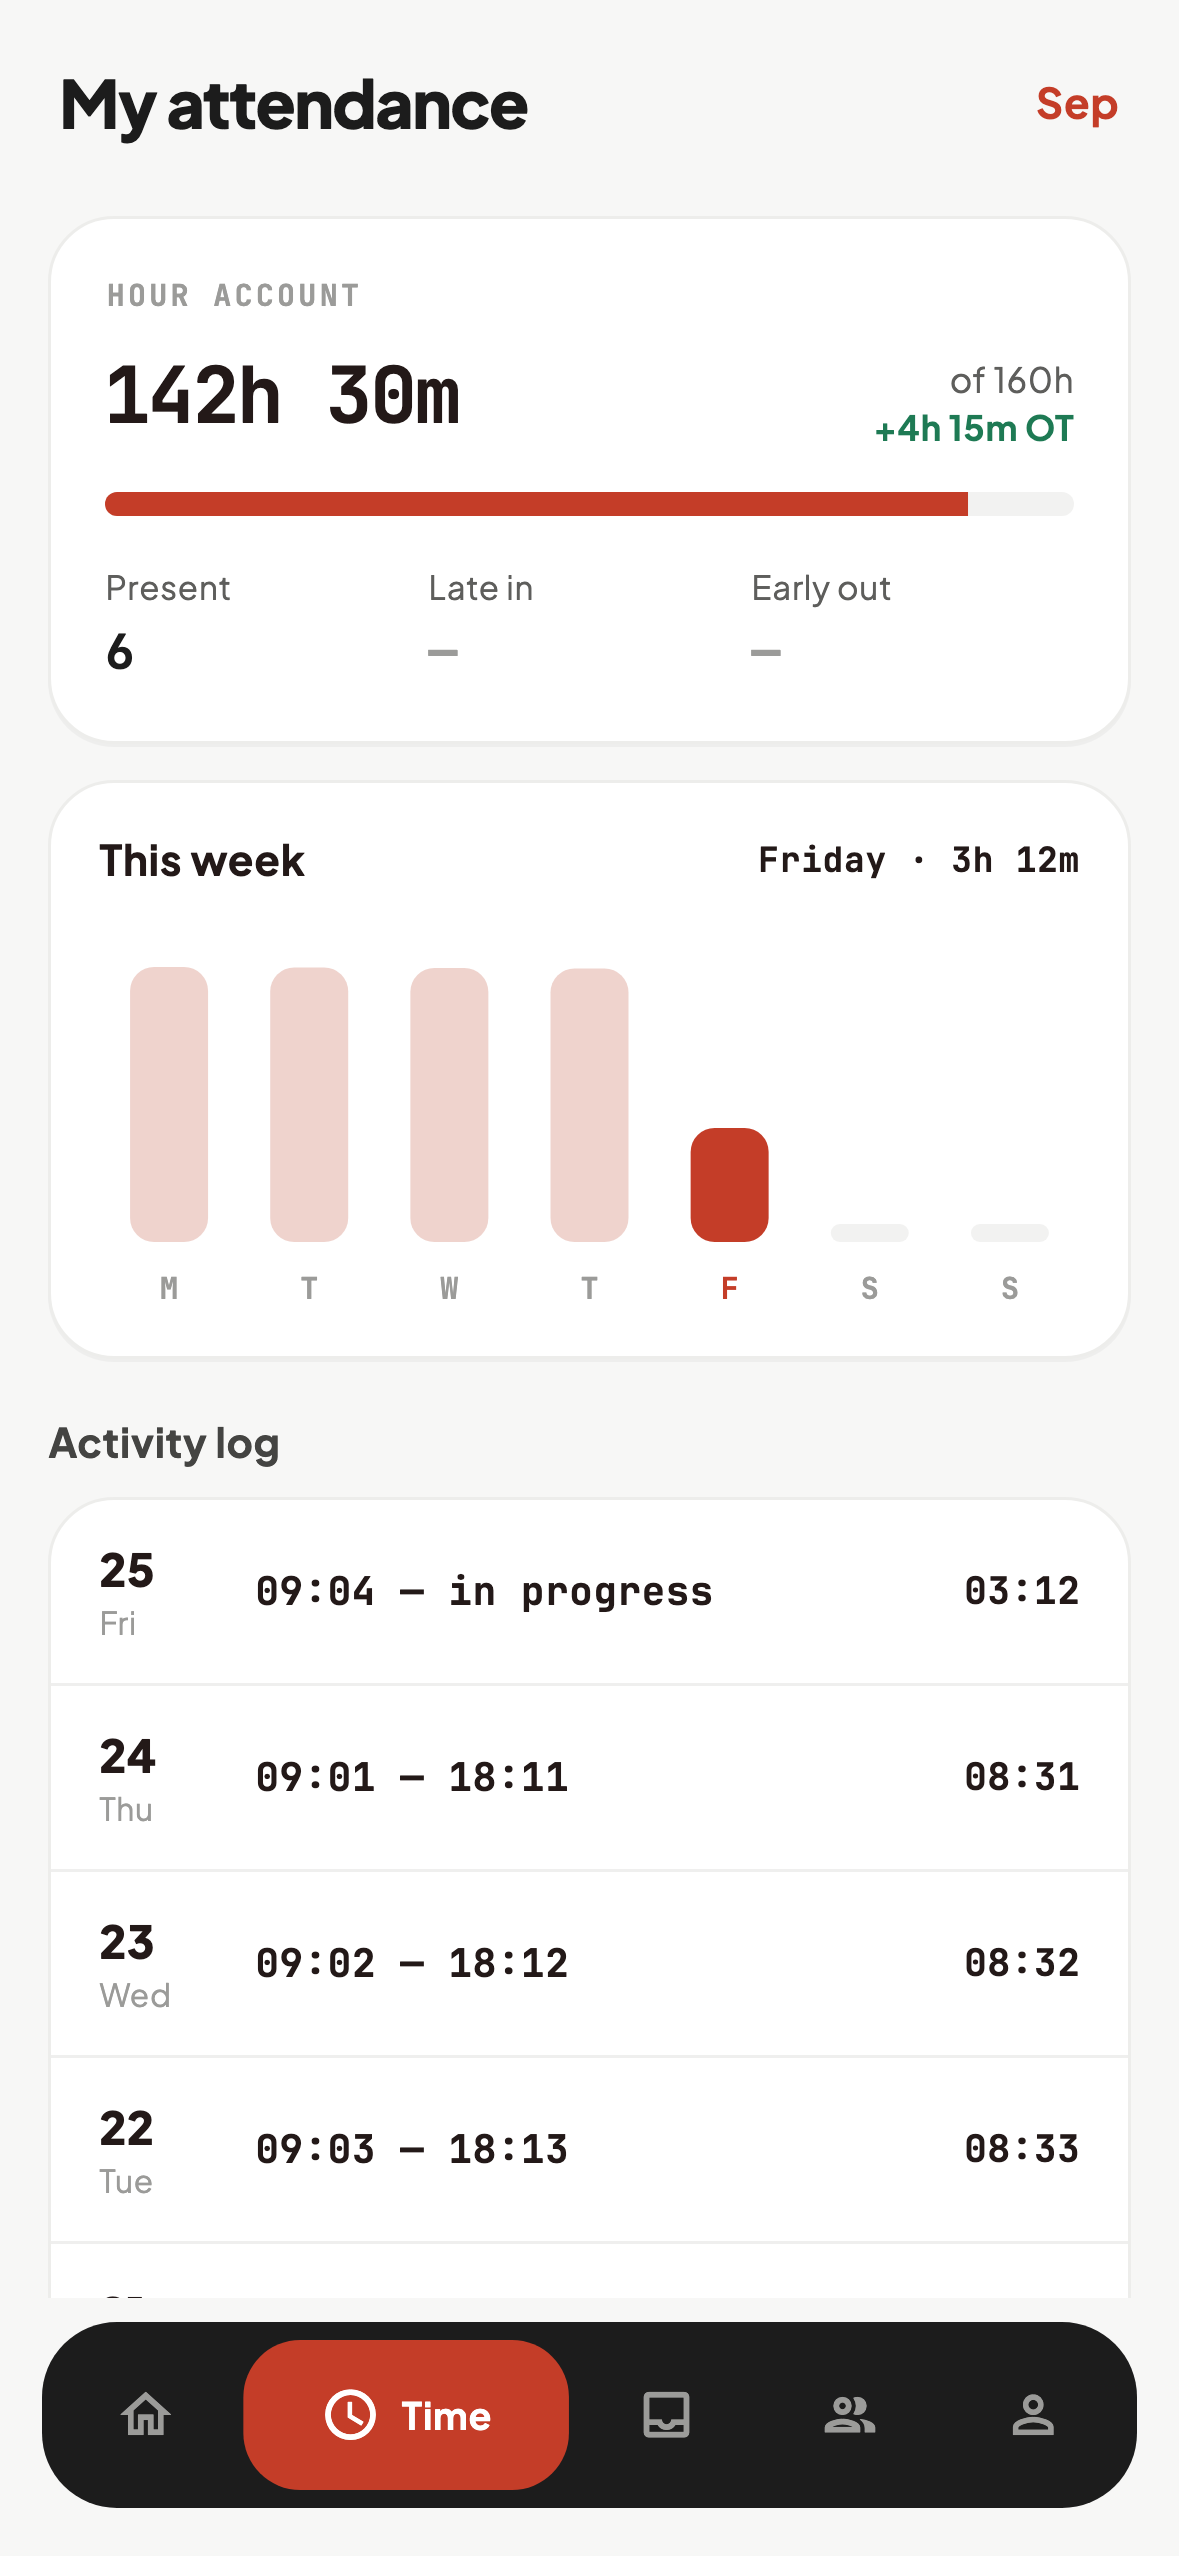
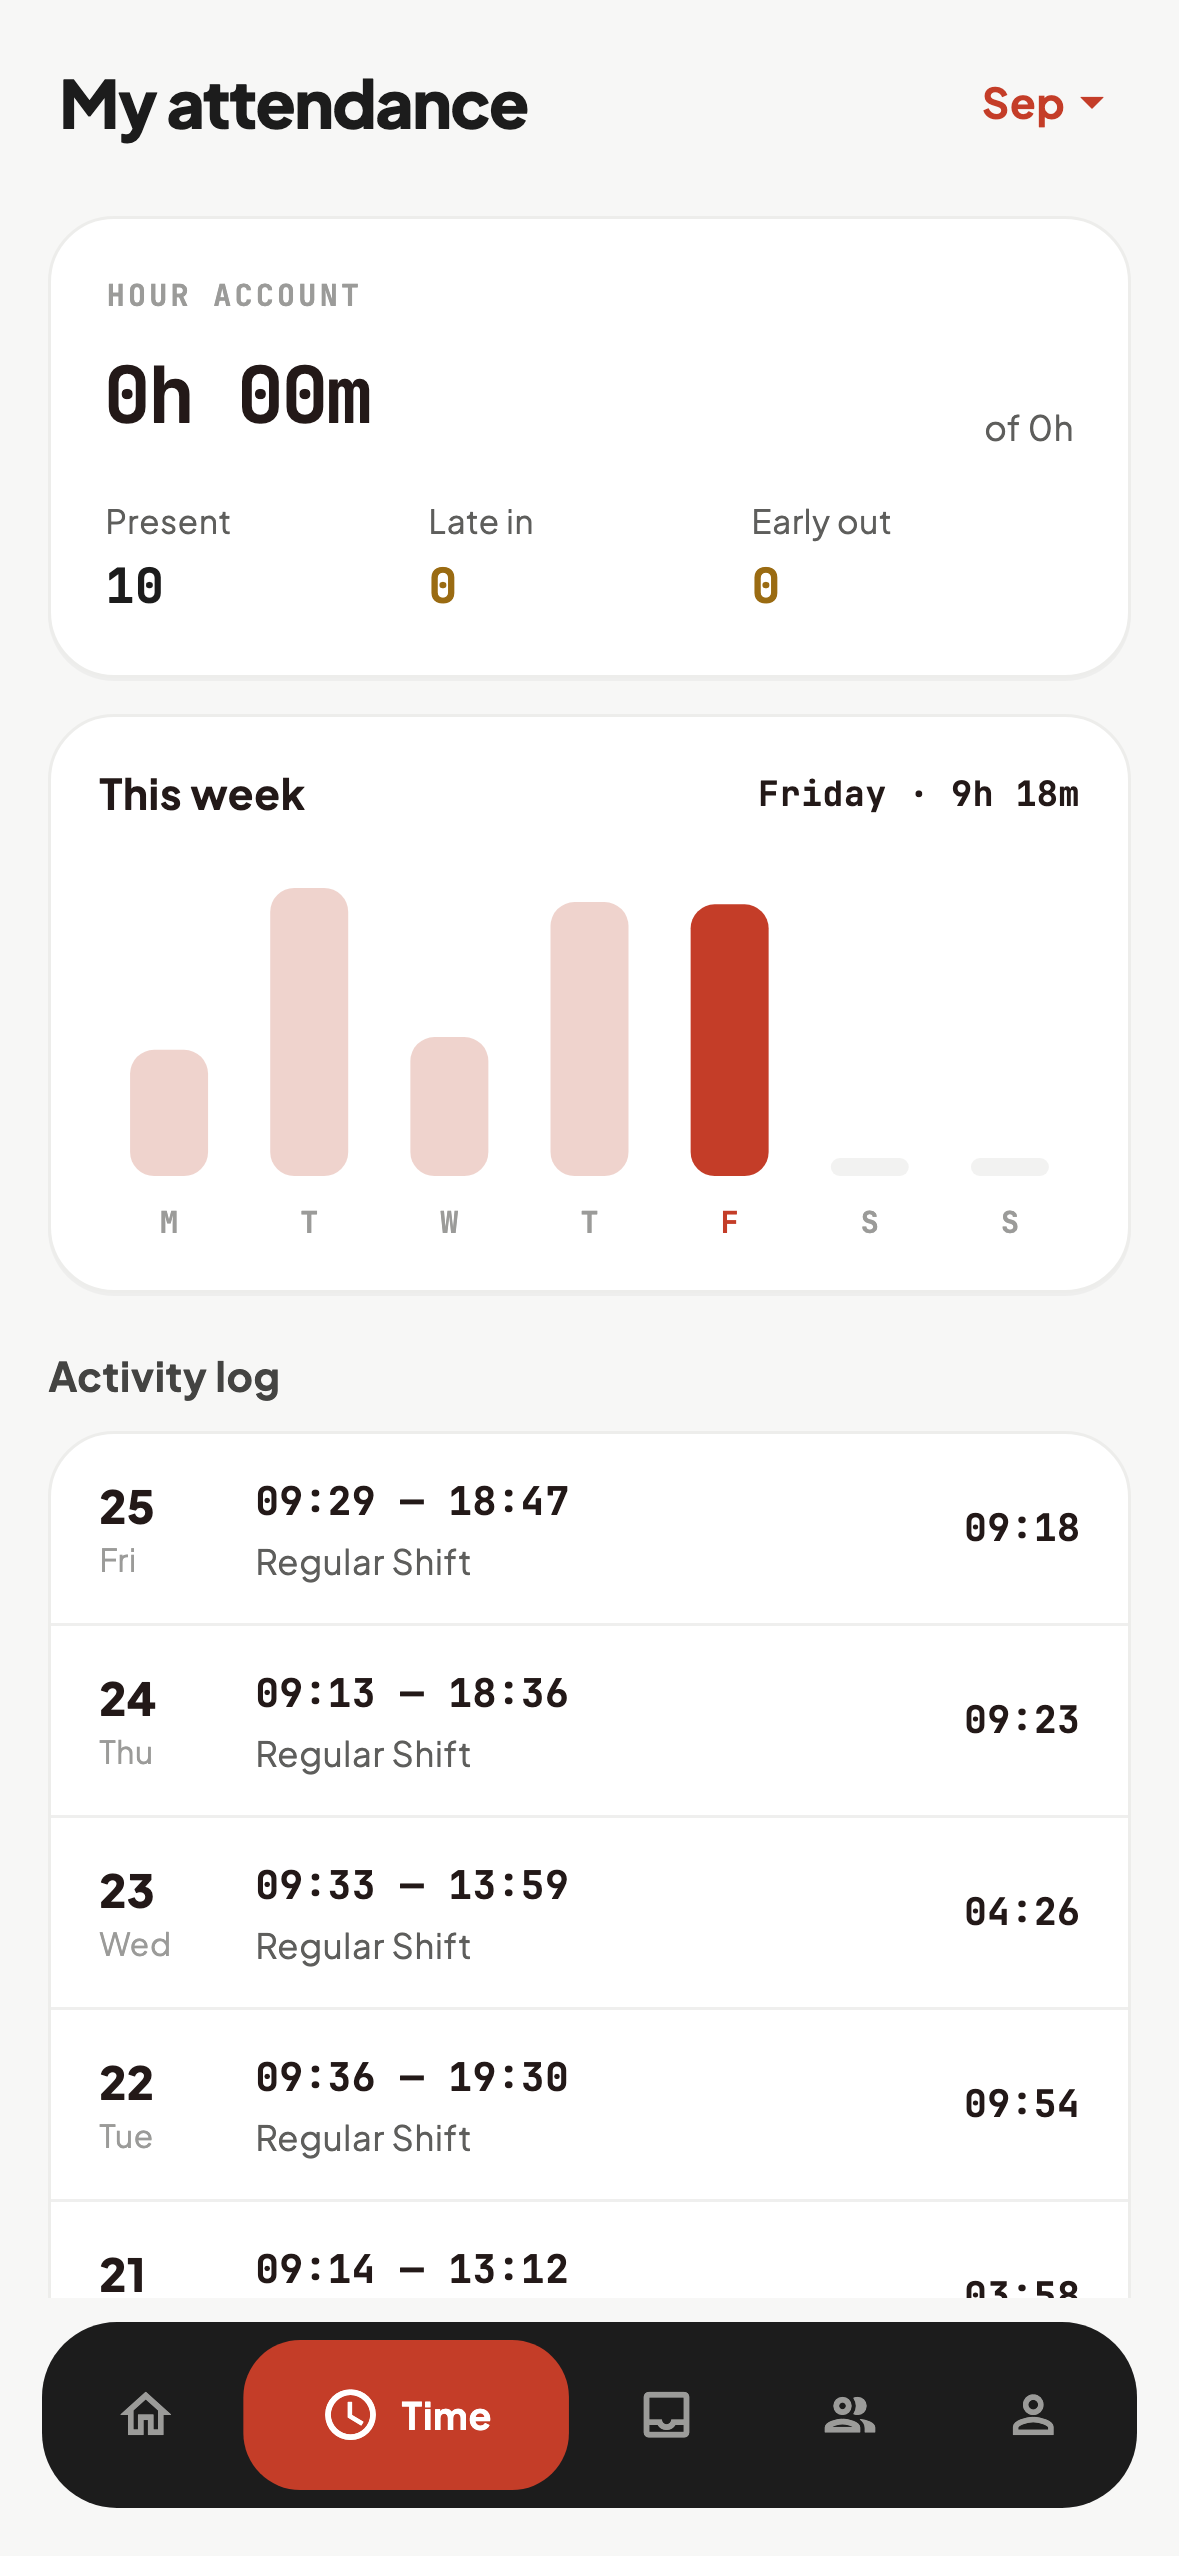
README screenshots: real data from hr.demo.horilla.com
Replaces the preview build's made-up sample data with a real sign-in and
read of the actual demo server, via a new script,
tool/demo_screenshots.dart. It never writes -- no punch, no leave, no
approval decision -- only reads what a sign-in already exposes.

Two ProviderContainers, not one: the first signs in and fetches
everything for real, inside runAsync; the second is what HorillaApp
mounts onto, with the session and each fetch fixed as an override, so
the widget tree never starts a live request of its own. A widget's own
ref.watch instead begins its fetch on flutter_test's fake clock, whose
real socket I/O then never gets a turn to complete -- the long way
around to that finding is in the file's own comments.

tool/readme_screenshots.dart (the preview build's fake data) stays as
the no-server fallback.

diff --git a/horilla_mobile/tool/demo_screenshots.dart b/horilla_mobile/tool/demo_screenshots.dart
@@ -1,0 +1,273 @@
+/// Renders the README screenshots from a real sign-in to a real server,
+/// instead of the preview's made-up data.
+///
+///     DEMO_HOST=https://hr.demo.horilla.com \
+///     DEMO_USERNAME=... DEMO_PASSWORD=... \
+///     flutter test tool/demo_screenshots.dart
+///
+/// Credentials are read from the environment and never written to disk, so
+/// this is safe to keep committed. Signing in and reading data is all this
+/// does -- it never punches in, applies for leave, or approves anything, so
+/// it leaves no mark on the server it points at.
+///
+/// Two containers, deliberately. The first signs in and fetches everything
+/// a shot needs, for real, inside `runAsync` (the real event loop -- a
+/// widget's own `ref.watch` instead starts its fetch on flutter_test's fake
+/// clock, whose real socket I/O then never gets a turn to complete). The
+/// second is what `HorillaApp` actually mounts onto, with those results
+/// (and the session itself) fixed as overrides -- exactly
+/// tool/readme_screenshots.dart's pattern, with real answers standing in
+/// for the hand-written ones. A widget rebuilding mid-shot then just finds
+/// already-resolved state, never a live request racing the fake clock.
+library;
+
+import 'dart:io';
+import 'dart:ui' as ui;
+
+import 'package:flutter/foundation.dart';
+import 'package:flutter/material.dart';
+import 'package:flutter/rendering.dart';
+import 'package:flutter/services.dart';
+import 'package:flutter_riverpod/flutter_riverpod.dart';
+import 'package:flutter_test/flutter_test.dart';
+import 'package:go_router/go_router.dart';
+import 'package:intl/date_symbol_data_local.dart';
+import 'package:horilla_mobile/app.dart';
+import 'package:horilla_mobile/core/auth/session.dart';
+import 'package:horilla_mobile/core/auth/token_store.dart';
+import 'package:horilla_mobile/features/announcements/data/announcement_models.dart';
+import 'package:horilla_mobile/features/announcements/data/announcements_api.dart';
+import 'package:horilla_mobile/features/approvals/data/approval_models.dart';
+import 'package:horilla_mobile/features/approvals/data/approvals_controller.dart';
+import 'package:horilla_mobile/features/attendance/data/attendance_api.dart';
+import 'package:horilla_mobile/features/attendance/data/attendance_models.dart';
+import 'package:horilla_mobile/features/home/data/home_api.dart';
+import 'package:horilla_mobile/features/home/data/home_models.dart';
+import 'package:horilla_mobile/features/leave/data/leave_api.dart';
+import 'package:horilla_mobile/features/leave/data/leave_models.dart';
+import 'package:horilla_mobile/features/notifications/data/notification_models.dart';
+import 'package:horilla_mobile/features/notifications/data/notifications_api.dart';
+import 'package:horilla_mobile/features/team/data/team_api.dart';
+import 'package:horilla_mobile/features/team/data/team_models.dart';
+import 'package:shared_preferences_platform_interface/in_memory_shared_preferences_async.dart';
+import 'package:shared_preferences_platform_interface/shared_preferences_async_platform_interface.dart';
+
+/// The real one talks to the Keychain, unavailable in a headless test and
+/// not the point here -- the token just needs to survive for one run.
+class _InMemoryTokenStore implements TokenStore {
+  StoredSession? _session;
+
+  @override
+  Future<StoredSession?> read() async => _session;
+
+  @override
+  Future<void> write(StoredSession session) async => _session = session;
+
+  @override
+  Future<void> clear() async => _session = null;
+}
+
+/// Hands back the session captured at bootstrap, forever. The widget tree
+/// never signs in, restores, or refreshes for real.
+class _FixedSession extends SessionController {
+  _FixedSession(this._session);
+
+  final Session? _session;
+
+  @override
+  Session? build() => _session;
+}
+
+class _FixedApprovals extends ApprovalsController {
+  _FixedApprovals(this._inbox);
+
+  final ApprovalInbox _inbox;
+
+  @override
+  Future<ApprovalInbox> build() async => _inbox;
+}
+
+const _shots = {
+  'home': '/home',
+  'attendance': '/time',
+  'leave': '/time/leave',
+  'leave-apply': '/time/leave/apply',
+  'approvals': '/team/approvals',
+  'team': '/team',
+  'announcements': '/home/announcements',
+  'notifications': '/home/notifications',
+  'me': '/me',
+};
+
+Future<void> _loadFonts() async {
+  Future<void> family(String name, List<String> files) async {
+    final loader = FontLoader(name);
+    for (final f in files) {
+      loader.addFont(
+        File(f).readAsBytes().then((b) => ByteData.view(b.buffer)),
+      );
+    }
+    await loader.load();
+  }
+
+  const fonts = 'Assets/fonts';
+  await family('PlusJakartaSans', [
+    for (final w in ['Regular', 'Medium', 'SemiBold', 'Bold', 'ExtraBold'])
+      '$fonts/PlusJakartaSans-$w.ttf',
+  ]);
+  await family('JetBrainsMono', [
+    for (final w in ['Regular', 'Medium', 'Bold'])
+      '$fonts/JetBrainsMono-$w.ttf',
+  ]);
+  final sdk = File(Platform.resolvedExecutable).parent.parent.parent.parent;
+  await family('MaterialIcons', [
+    '${sdk.path}/artifacts/material_fonts/MaterialIcons-Regular.otf',
+  ]);
+}
+
+void main() {
+  testWidgets('demo screenshots', (tester) async {
+    final host =
+        Platform.environment['DEMO_HOST'] ?? 'https://hr.demo.horilla.com';
+    final username = Platform.environment['DEMO_USERNAME'];
+    final password = Platform.environment['DEMO_PASSWORD'];
+    if (username == null || password == null) {
+      fail(
+        'Set DEMO_USERNAME and DEMO_PASSWORD (and optionally DEMO_HOST) '
+        'in the environment. Nothing is written or approved -- this only '
+        'signs in and reads.',
+      );
+    }
+
+    // flutter_test fakes every HttpClient it sees (every request comes back
+    // 400) so a widget test can't accidentally hit the network. That is
+    // exactly what this script needs to do, on purpose.
+    HttpOverrides.global = null;
+    SharedPreferencesAsyncPlatform.instance =
+        InMemorySharedPreferencesAsync.empty();
+    // The real app never calls this explicitly -- flutter_localizations does
+    // it as a side effect of mounting MaterialApp, which by bootstrap time
+    // hasn't happened yet.
+    await initializeDateFormatting('en');
+    await tester.runAsync(_loadFonts);
+    debugDefaultTargetPlatformOverride = TargetPlatform.iOS;
+    tester.view
+      ..physicalSize = const Size(1179, 2556)
+      ..devicePixelRatio = 3;
+    addTearDown(tester.view.reset);
+
+    // --- bootstrap: sign in and fetch everything, for real -----------------
+    final bootstrap = ProviderContainer(
+      // No retries: a real failure should surface immediately, not schedule
+      // a Timer that outlives this script's own teardown.
+      retry: (_, _) => null,
+      overrides: [tokenStoreProvider.overrideWithValue(_InMemoryTokenStore())],
+    );
+    final results = await tester.runAsync(() async {
+      await bootstrap
+          .read(sessionProvider.notifier)
+          .signIn(rawHost: host, username: username, password: password)
+          .timeout(const Duration(seconds: 30));
+
+      final fetched = await Future.wait([
+        bootstrap.read(homeProvider.future),
+        bootstrap.read(attendanceOverviewProvider.future),
+        bootstrap.read(leaveOverviewProvider.future),
+        bootstrap.read(approvalsProvider.future),
+        bootstrap.read(teamTodayProvider.future),
+        bootstrap.read(announcementsProvider.future),
+        bootstrap.read(notificationInboxProvider.future),
+      ]).timeout(const Duration(seconds: 60));
+
+      final announcements = fetched[5] as List<Announcement>;
+      final detail = announcements.isEmpty
+          ? null
+          : await bootstrap
+                .read(announcementProvider(announcements.first.id).future)
+                .timeout(const Duration(seconds: 30));
+
+      return (
+        session: bootstrap.read(sessionProvider),
+        fetched: fetched,
+        detail: detail,
+      );
+    });
+    expect(results!.session, isNotNull, reason: 'sign-in failed');
+    bootstrap.dispose();
+
+    final home = results.fetched[0] as HomeData;
+    final attendance = results.fetched[1] as AttendanceOverview;
+    final leave = results.fetched[2] as LeaveOverview;
+    final approvals = results.fetched[3] as ApprovalInbox;
+    final team = results.fetched[4] as TeamToday;
+    final announcements = results.fetched[5] as List<Announcement>;
+    final notifications = results.fetched[6] as NotificationInbox;
+
+    // --- display: HorillaApp mounts onto fixed, already-resolved state -----
+    final container = ProviderContainer(
+      retry: (_, _) => null,
+      overrides: [
+        sessionProvider.overrideWith(() => _FixedSession(results.session)),
+        sessionRestoreProvider.overrideWith((ref) async {}),
+        homeProvider.overrideWith((ref) async => home),
+        attendanceOverviewProvider.overrideWith((ref) async => attendance),
+        leaveOverviewProvider.overrideWith((ref) async => leave),
+        approvalsProvider.overrideWith(() => _FixedApprovals(approvals)),
+        teamTodayProvider.overrideWith((ref) async => team),
+        announcementsProvider.overrideWith((ref) async => announcements),
+        notificationInboxProvider.overrideWith((ref) async => notifications),
+        if (results.detail != null)
+          announcementProvider.overrideWith((ref, id) async => results.detail!),
+      ],
+    );
+    addTearDown(container.dispose);
+
+    final boundary = GlobalKey();
+    await tester.pumpWidget(
+      UncontrolledProviderScope(
+        container: container,
+        child: RepaintBoundary(key: boundary, child: const HorillaApp()),
+      ),
+    );
+    await tester.pump(const Duration(seconds: 1));
+
+    final out = Directory('../docs/screenshots')..createSync(recursive: true);
+    Future<void> shoot(String name, String path) async {
+      GoRouter.of(tester.element(find.byType(Scaffold).first)).go(path);
+      // A push within a branch (e.g. home -> home/announcements) animates in
+      // over a few frames; one bare pump() catches it mid-transition, or
+      // still showing the screen before it. pumpAndSettle isn't safe here --
+      // the punch clock's own periodic Timer means it never truly settles.
+      for (var i = 0; i < 10; i++) {
+        await tester.pump(const Duration(milliseconds: 100));
+      }
+      await tester.runAsync(() async {
+        for (final e in find.byType(Image).evaluate()) {
+          await precacheImage((e.widget as Image).image, e);
+        }
+      });
+      await tester.pump();
+
+      final render =
+          boundary.currentContext!.findRenderObject()! as RenderRepaintBoundary;
+      await tester.runAsync(() async {
+        final image = await render.toImage(pixelRatio: 3);
+        final png = await image.toByteData(format: ui.ImageByteFormat.png);
+        File(
+          '${out.path}/$name.png',
+        ).writeAsBytesSync(png!.buffer.asUint8List());
+      });
+    }
+
+    for (final MapEntry(key: name, value: path) in _shots.entries) {
+      await shoot(name, path);
+    }
+    if (announcements.isNotEmpty) {
+      await shoot(
+        'announcement',
+        '/home/announcements/${announcements.first.id}',
+      );
+    }
+    debugDefaultTargetPlatformOverride = null;
+  }, timeout: const Timeout(Duration(minutes: 3)));
+}

diff --git a/README.md b/README.md
@@ -122,11 +122,14 @@ CI runs all three on every pull request.
 
 ### Screenshots are code
 
-The images above are rendered by a script from the same sample data as the preview build. After a UI change, regenerate them:
+The images above are real data from `hr.demo.horilla.com`, rendered by a script that signs in for real and reads (never writes) before capturing each screen:
 
 ```bash
-flutter test tool/readme_screenshots.dart   # writes docs/screenshots/*.png
+DEMO_HOST=https://hr.demo.horilla.com DEMO_USERNAME=... DEMO_PASSWORD=... \
+flutter test tool/demo_screenshots.dart   # writes docs/screenshots/*.png
 ```
+
+No server handy, or want the made-up sample data instead? `tool/readme_screenshots.dart` renders the same set from the preview build's fixed data, no sign-in required.
 
 ## Contributing
 
